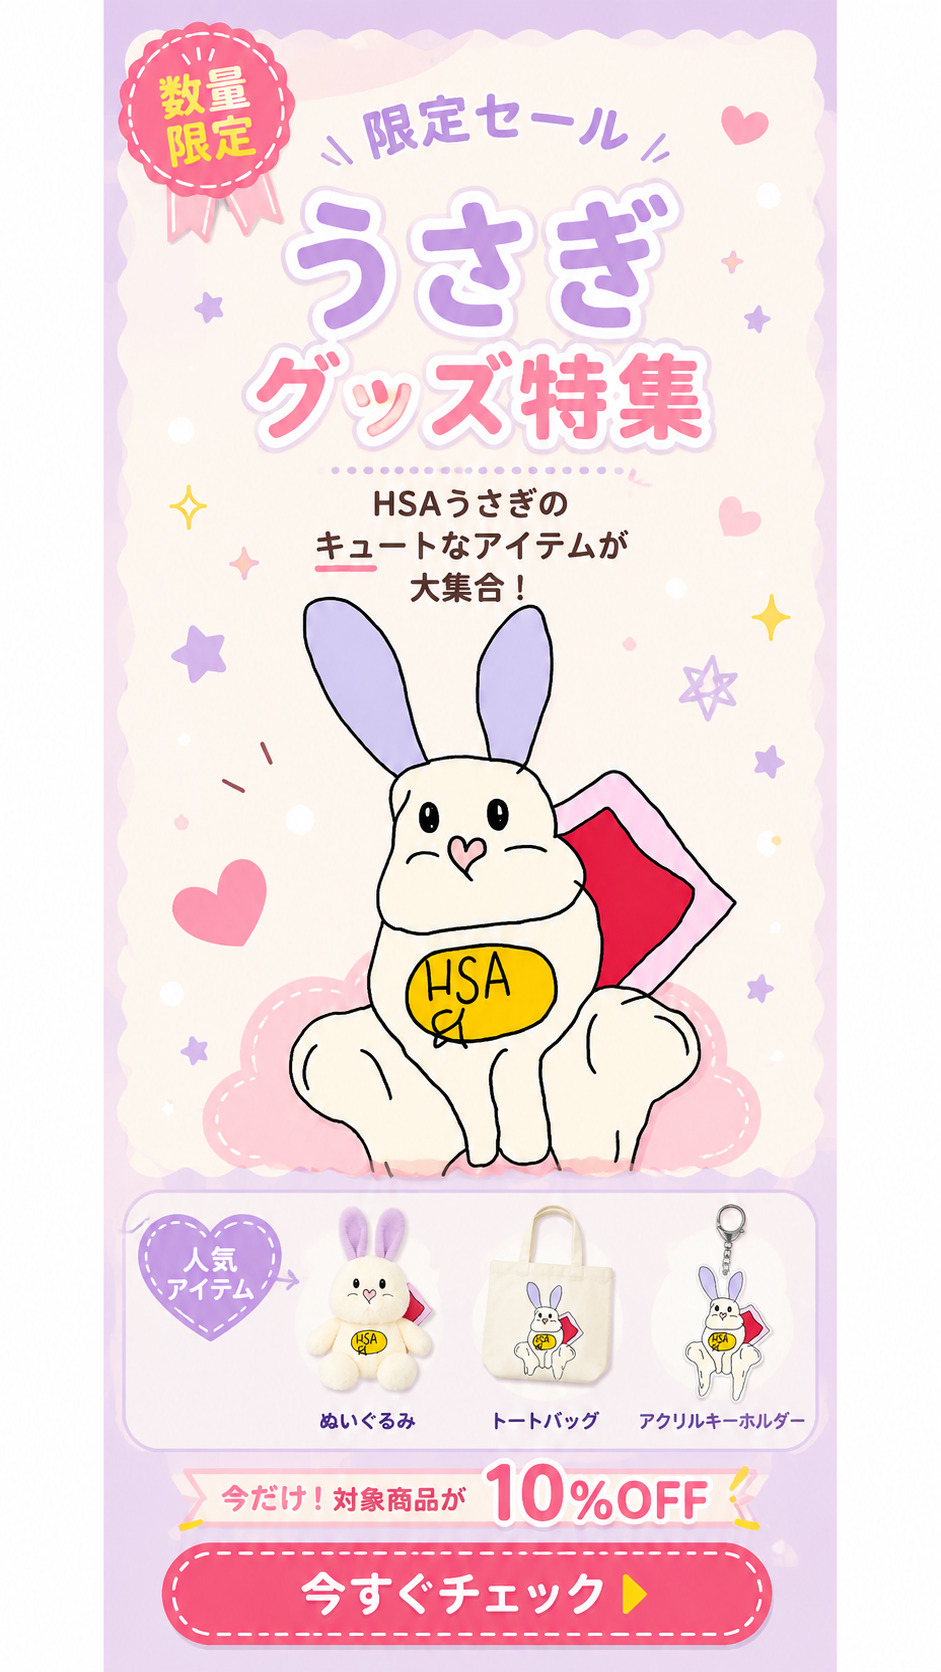
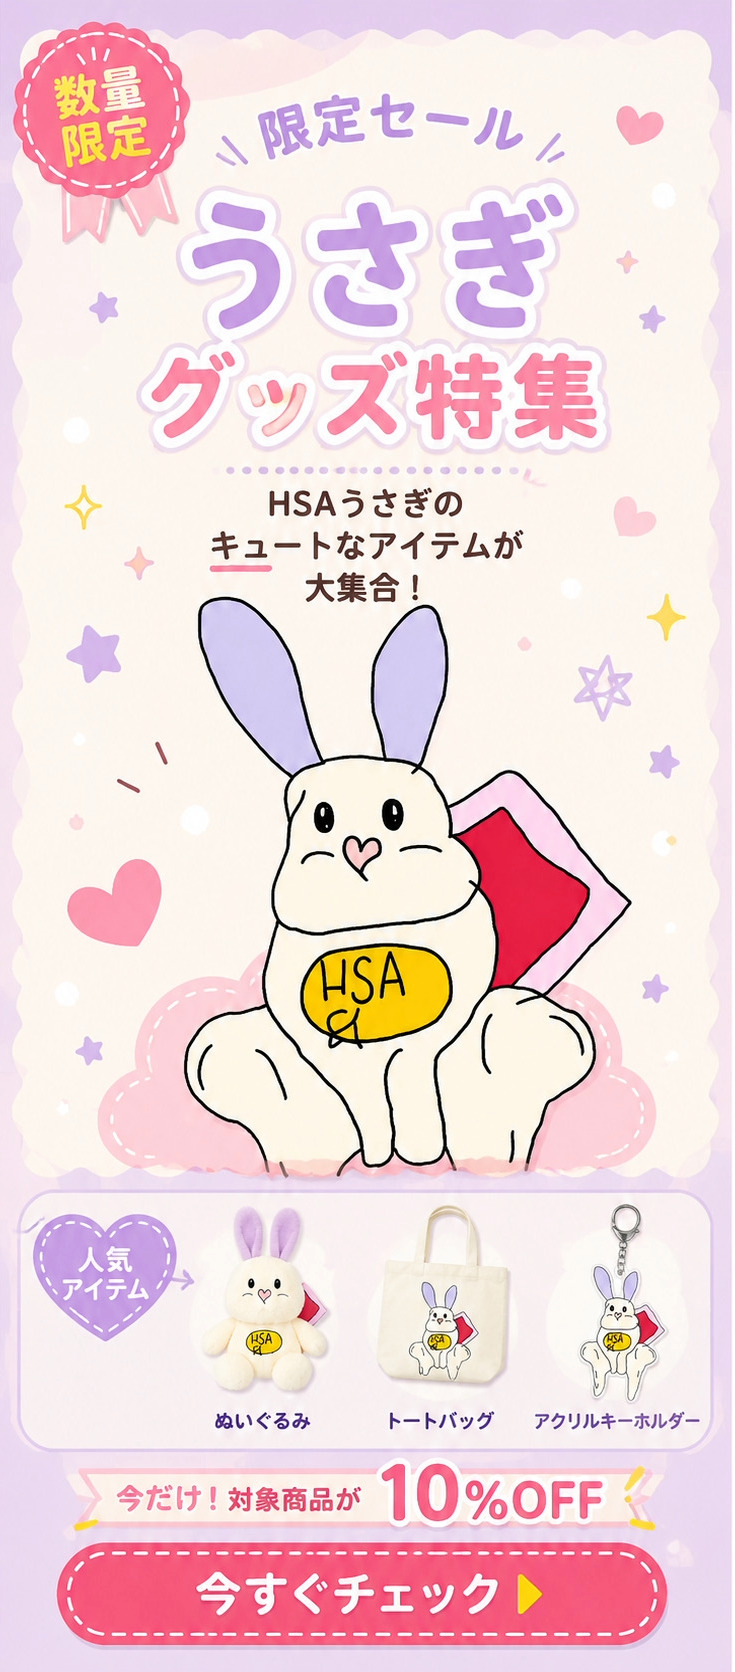
CSSS

diff --git a/shared_shop_EPISODE1/src/main/resources/static/css/layout.css b/shared_shop_EPISODE1/src/main/resources/static/css/layout.css
@@ -394,6 +394,16 @@ aside.admin_menu {
 	padding: 15px 0 50px 5px;
 }
 
+.ad_area {
+	width: 100%;
+}
+
+.ad_area img {
+	max-width: 100%;
+	height: auto;
+	display: block;
+}
+
 .admin_menu .display_list {
 	display: block;
 	padding: 10px;
@@ -572,52 +582,50 @@ aside.admin_menu {
 
 /* ---- 下部のバナー ---- */
 .shipping-banner {
-  position: fixed;
-  width: 100%;
-  bottom: 0px;
-  z-index: 100;
-  padding: 10px;
+	position: fixed;
+	width: 100%;
+	bottom: 0px;
+	z-index: 100;
+	padding: 10px;
 
-  text-align: center;
+	text-align: center;
 
-  color: #694c70;
-  background: linear-gradient(
-    110deg,
-    #fce7f0,
-    #e7f7ff
-  );
+	color: #694c70;
+	background: linear-gradient(110deg,
+			#fce7f0,
+			#e7f7ff);
 
-  border: 1px solid #dfc1e6;
-  font-size: 16px;
-  font-weight: bold;
-  letter-spacing: 0.04em;
+	border: 1px solid #dfc1e6;
+	font-size: 16px;
+	font-weight: bold;
+	letter-spacing: 0.04em;
 
-  box-shadow: 0 4px 12px rgba(145, 105, 160, 0.18);
+	box-shadow: 0 4px 12px rgba(145, 105, 160, 0.18);
 
-  opacity: 1;
-  transform: translateY(0);
+	opacity: 1;
+	transform: translateY(0);
 
-  transition:
-    opacity 0.25s ease,
-    transform 0.25s ease;
+	transition:
+		opacity 0.25s ease,
+		transform 0.25s ease;
 }
 
-.shipping-banner p{
-	margin :0;
+.shipping-banner p {
+	margin: 0;
 }
 
-.shipping-banner p .under-line{
+.shipping-banner p .under-line {
 	text-decoration: underline;
 }
 
-.shipping-banner p .highlight{
+.shipping-banner p .highlight {
 	color: #ff69b4;
 }
 
 .shipping-banner.is-hidden {
-  opacity: 0;
-  transform: translateY(15px);
-  pointer-events: none;
+	opacity: 0;
+	transform: translateY(15px);
+	pointer-events: none;
 }
 
 

diff --git a/shared_shop_EPISODE1/src/main/resources/templates/common/sidebar.html b/shared_shop_EPISODE1/src/main/resources/templates/common/sidebar.html
@@ -29,7 +29,7 @@
 	</div>
 	
 	<div class="ad_area" th:if="${session.user == null or session.user.authority == 2}">
-		
+		<img th:src="@{/images/ad_usagi.jpg}">
 	</div>
 	
 